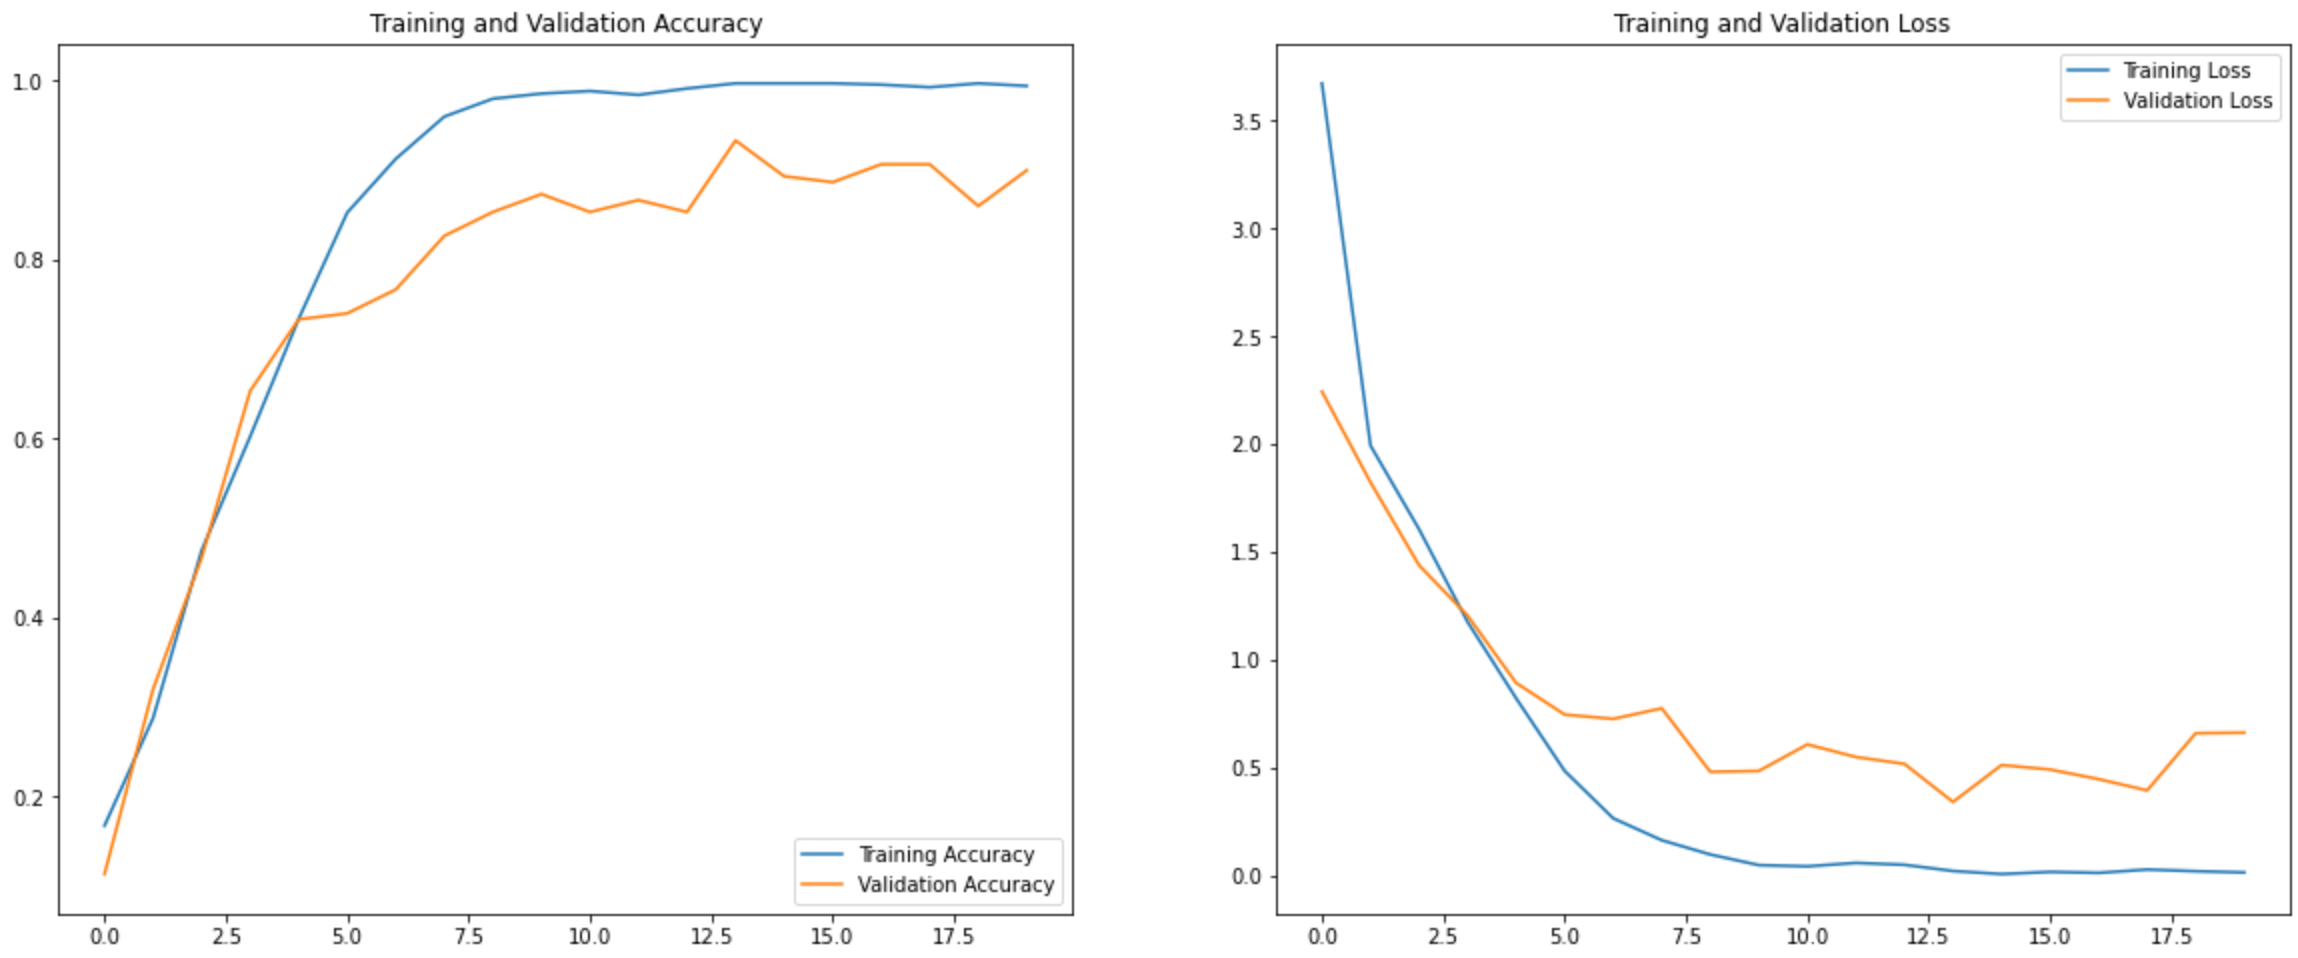
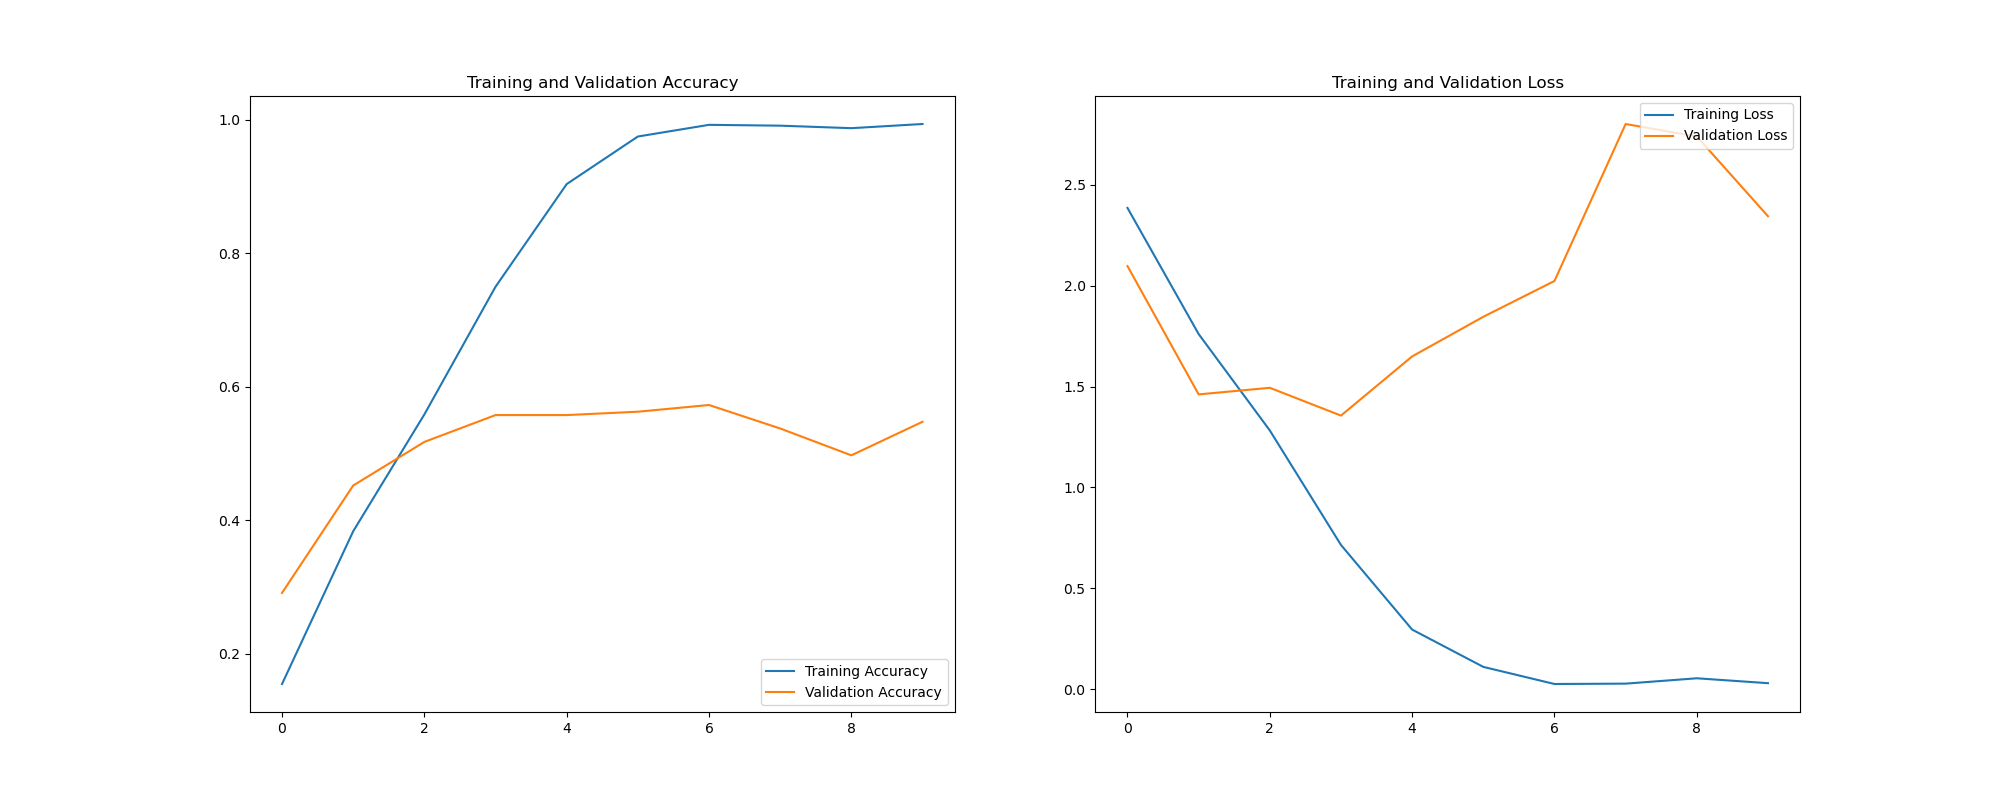
update cnn results + add transfer learning

diff --git a/train_dl_models.py b/train_dl_models.py
@@ -1,0 +1,137 @@
+import tensorflow as tf
+import pathlib
+import numpy as np
+import matplotlib.pyplot as plt
+import seaborn as sns
+
+def plot_training_curves(log, epochs_number, suffix=''):
+    acc = log.history['accuracy']
+    val_acc = log.history['val_accuracy']
+
+    loss = log.history['loss']
+    val_loss = log.history['val_loss']
+
+    epochs_range = range(epochs_number)
+
+    plt.figure(figsize=(20, 8))
+    plt.subplot(1, 2, 1)
+    plt.plot(epochs_range, acc, label='Training Accuracy')
+    plt.plot(epochs_range, val_acc, label='Validation Accuracy')
+    plt.legend(loc='lower right')
+    plt.title('Training and Validation Accuracy')
+
+    plt.subplot(1, 2, 2)
+    plt.plot(epochs_range, loss, label='Training Loss')
+    plt.plot(epochs_range, val_loss, label='Validation Loss')
+    plt.legend(loc='upper right')
+    plt.title('Training and Validation Loss')
+    plt.savefig('./img/learning_curve_dl{}.png'.format(suffix))
+    plt.clf()
+
+def plot_dl_confusion_matrix(ds, model, suffix=''):
+    predictions = np.array([])
+    labels = np.array([])
+    for x, y in ds.unbatch():
+        predictions = np.concatenate([predictions, model.predict_classes(tf.expand_dims(x, axis=0))])
+        labels = np.concatenate([labels, [y.numpy()]])
+
+    cf_m = tf.math.confusion_matrix(labels = labels, predictions = predictions).numpy()
+    cf_mm = cf_m.astype('float') / cf_m.sum(axis=1)[:, np.newaxis]
+    ax = sns.heatmap(cf_mm, annot=True, cmap='Blues', xticklabels=class_names, yticklabels=class_names)
+
+    ax.set_title('Confusion Matrix with labels for Validation DB\n\n')
+    ax.set_xlabel('\nPredicted Values')
+    ax.set_ylabel('Actual Values ')
+    plt.savefig('./img/confusion_matrix_dl{}.png'.format(suffix))
+    plt.clf()
+
+def train_cnn_model(train_ds, valid_ds, INPUT_SHAPE, class_names):
+    # Build CNN model
+    num_classes = len(class_names)
+    epochs_number = 10
+
+    model = tf.keras.Sequential([
+    tf.keras.layers.experimental.preprocessing.Rescaling(1./255, input_shape=INPUT_SHAPE),
+    tf.keras.layers.Conv2D(32, 3, activation='relu'),
+    
+    tf.keras.layers.MaxPooling2D(),
+    tf.keras.layers.Conv2D(64, 3, activation='relu'),
+    tf.keras.layers.MaxPooling2D(),
+    tf.keras.layers.Conv2D(128, 3, activation='relu'),
+    tf.keras.layers.MaxPooling2D(),
+    tf.keras.layers.Flatten(),
+    tf.keras.layers.Dense(128, activation='relu'),
+    # tf.keras.layers.Dropout(0.3),
+    tf.keras.layers.Dense(num_classes)
+    ])
+
+    model.compile(optimizer='adam',
+                    loss=tf.losses.SparseCategoricalCrossentropy(from_logits=True), # from_logits=True then need softmax before predicting 
+                    metrics=['accuracy'])
+
+    log = model.fit(train_ds, validation_data=valid_ds, epochs=epochs_number)
+
+    plot_training_curves(log, epochs_number)
+    plot_dl_confusion_matrix(train_ds, model, '_cnn_train')
+    plot_dl_confusion_matrix(valid_ds, model, '_cnn_valid')
+
+def train_tf_model(train_ds, valid_ds, INPUT_SHAPE, class_names):
+    tf_model = tf.keras.applications.InceptionResNetV2(input_shape=INPUT_SHAPE,
+                                               include_top=False,
+                                               weights='imagenet')
+
+    tf_model.trainable = False
+    global_average_layer = tf.keras.layers.GlobalAveragePooling2D()
+    prediction_layer = tf.keras.layers.Dense(len(class_names))
+
+    model = tf.keras.Sequential([tf_model,
+                                    global_average_layer,
+                                    tf.keras.layers.Dense(128),
+                                    prediction_layer
+                                    ])
+    epochs_number = 10
+    model.compile(optimizer='adam',
+                        loss=tf.losses.SparseCategoricalCrossentropy(from_logits=True),
+                        metrics=['accuracy'])
+
+    log = model.fit(train_ds, validation_data=valid_ds, epochs=epochs_number, batch_size=10)
+    plot_training_curves(log, epochs_number)
+    plot_dl_confusion_matrix(train_ds, model, '_tl_train')
+    plot_dl_confusion_matrix(valid_ds, model, '_tl_valid')
+
+if __name__ == "__main__":
+
+    # Load images
+    data_path = './data/images_original'
+    data_dir = pathlib.Path(data_path)
+    img_height = 288
+    img_width = 432
+    batch_size = 10
+
+    train_ds = tf.keras.preprocessing.image_dataset_from_directory(data_dir,
+                                                                    validation_split=0.2,
+                                                                    subset='training',
+                                                                    seed=1233,
+                                                                    image_size=(img_height, img_width),
+                                                                    batch_size=batch_size)
+                                                                    
+    valid_ds = tf.keras.preprocessing.image_dataset_from_directory(data_dir,
+                                                                    validation_split=0.2,
+                                                                    subset='validation',
+                                                                    seed=1233,
+                                                                    image_size=(img_height, img_width),
+                                                                    batch_size=batch_size)
+
+    class_names = train_ds.class_names
+    AUTOTUNE = tf.data.AUTOTUNE
+    train_ds = train_ds.cache().shuffle(1000).prefetch(buffer_size=AUTOTUNE)
+    valid_ds = valid_ds.cache().prefetch(buffer_size=AUTOTUNE)
+
+    INPUT_SHAPE = (img_height, img_width, 3)
+
+    # Train CNN from stratch
+    train_cnn_model(train_ds, valid_ds, INPUT_SHAPE, class_names)
+    
+    # Transfer learning with InceptionResNetV2 trained on imageNet
+    train_tf_model(train_ds, valid_ds, INPUT_SHAPE, class_names)
+    

diff --git a/README.md b/README.md
@@ -5,12 +5,12 @@ This work aims to analyze the GTZAN database (https://www.kaggle.com/andradaolte
 A few machine learning and deep learning models are built and compared.<br>
 GTZAN_Dataset.ipynb : database observation and models fine tuning <br>
 train_ml_models : train ML models and MLP model<br>
-train_cnn_models : train deep learning models<br>
+train_dl_models : train deep learning models<br>
 
 ## K nearest neighbors, Random Forest and Multi Layer Perceptron
-<img src="img/knn_cf_matrix.png" width="30%" height="30%" />
-<img src="img/rf_cf_matrix.png" width="30%" height="30%" />
-<img src="img/mlp_cf_matrix.png" width="30%" height="30%" />
+<img src="img/knn_cf_matrix.png" width="40%" height="40%" />
+<img src="img/rf_cf_matrix.png" width="40%" height="40%" />
+<img src="img/mlp_cf_matrix.png" width="40%" height="40%" />
 <br>
 <img src="img/kfold_accuracy_comp.png" width="30%" height="30%" />
 <br>
